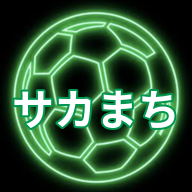
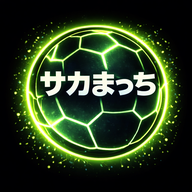
debug

diff --git a/app/layout.tsx b/app/layout.tsx
@@ -22,13 +22,13 @@ const logoFont = Zen_Kaku_Gothic_New({
 });
 
 export const metadata: Metadata = {
-  title: "サカまち",
+  title: "サカまっち",
   description: "サッカー練習試合マッチング",
   manifest: "/manifest.webmanifest",
   appleWebApp: {
     capable: true,
     statusBarStyle: "default",
-    title: "サカまち",
+    title: "サカまっち",
   },
   icons: {
     apple: "/apple-icon.png",

diff --git a/app/components/AppHeader.tsx b/app/components/AppHeader.tsx
@@ -123,7 +123,7 @@ export default function AppHeader() {
           </div>
 
           <div>
-            <div className="logoText">サカまち</div>
+            <div className="logoText">サカまっち</div>
             <div className="smh-brandSub">Soccer Match</div>
           </div>
         </Link>
